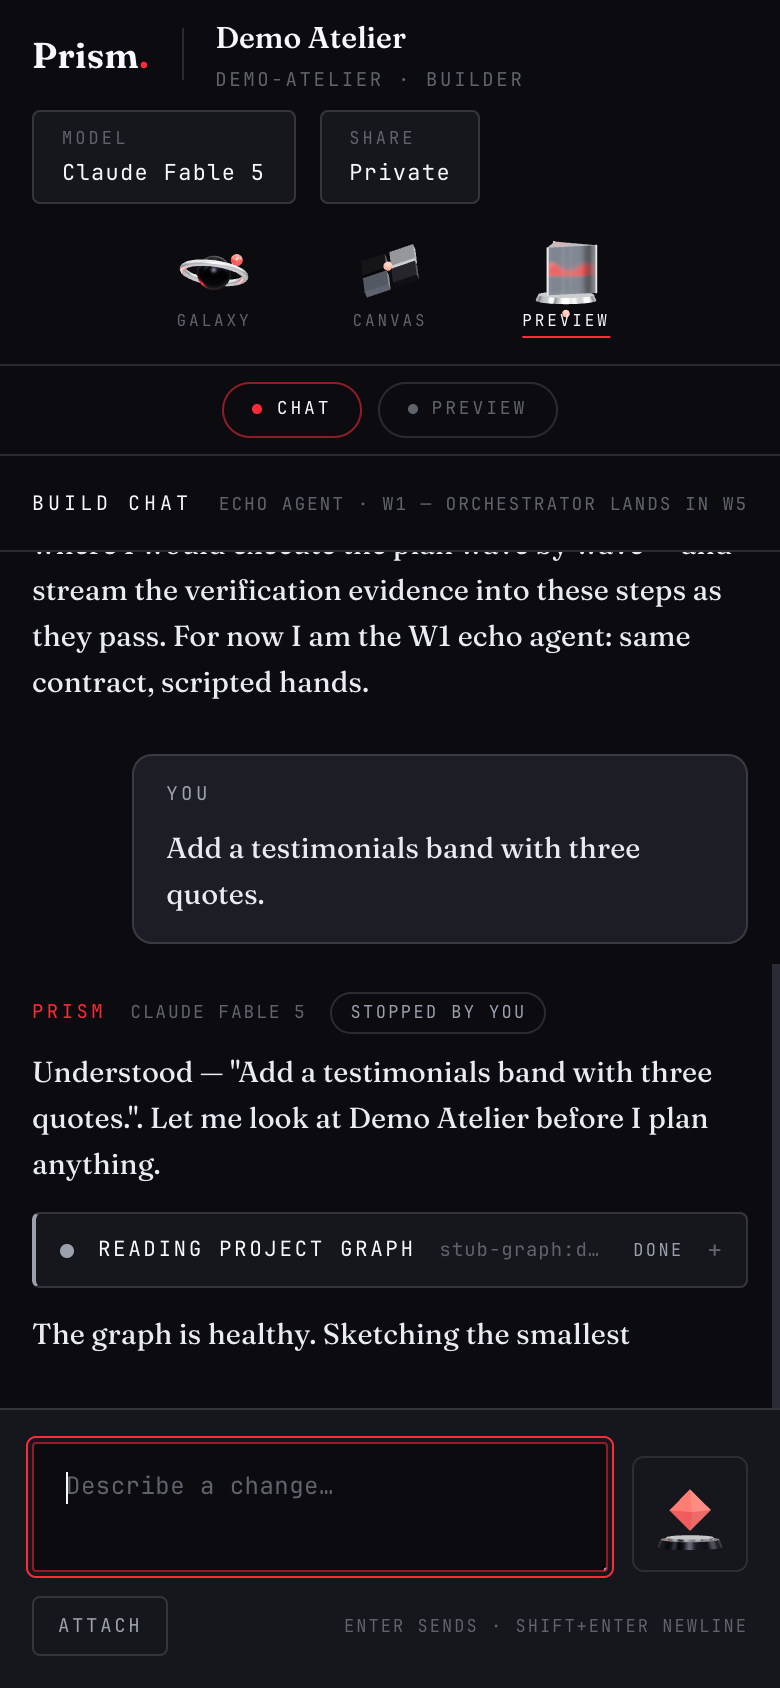
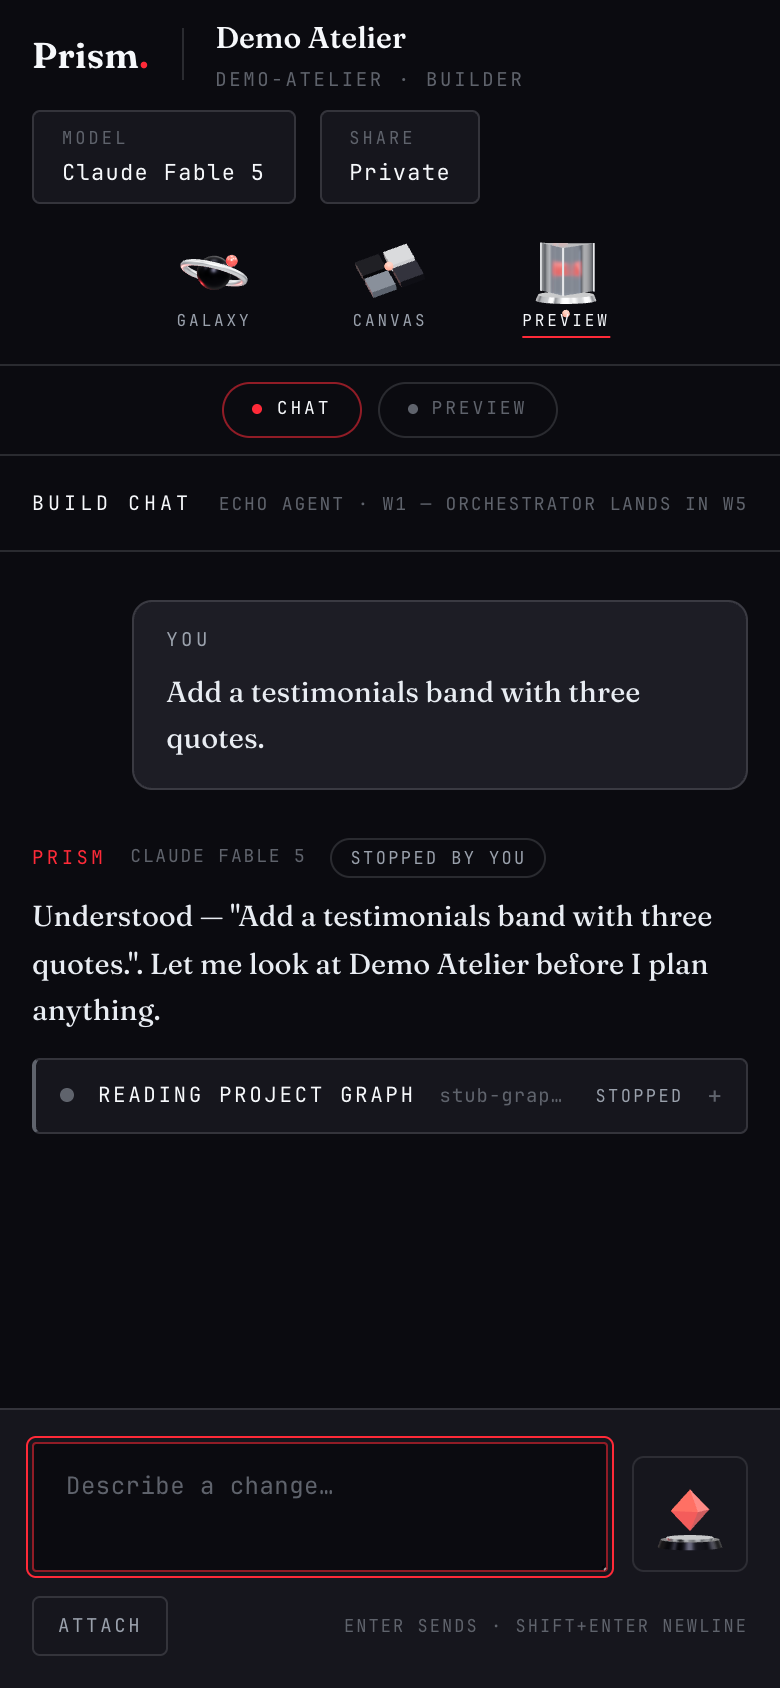
shell-w1: judge round 1 — BOTH PASS 0 MUST-FIX; all 4 cheap should-fixes taken: pendingMode cleared on engine error (+unit test, 72/72), inactive mode labels lifted low→mid contrast, wave-0 mount glow (3.2s chrome bloom as nodes materialize — desktop/14 catches WAVE 0 · STARTED with 3 glowing nodes)

diff --git a/kid-kode-landing/src/lib/shell/engine/stub-engine.ts b/kid-kode-landing/src/lib/shell/engine/stub-engine.ts
@@ -57,6 +57,9 @@ export class StubEngineHost implements PrismEngineHost {
   private nodes: NodeVis[] = [];
   private hoverId: string | null = null;
   private focus: { x: number; y: number; start: number } | null = null;
+  /** nodeId → mount time — drives the wave-hydration glow (advocate W1
+   *  should-fix: a cold load should visibly materialize, never read empty). */
+  private mountGlow = new Map<string, number>();
   private reducedMotion = false;
 
   constructor() {
@@ -69,6 +72,7 @@ export class StubEngineHost implements PrismEngineHost {
         onUnmountRequest: () => this.teardownVisual(),
         onModeTarget: (mode) => this.retarget(mode),
         onFocusPulse: (targetId) => this.pulseToward(targetId),
+        onNodeMounted: (nodeId) => this.mountGlow.set(nodeId, performance.now()),
       },
     );
     const layout = getStubLayout(this.core.mode);
@@ -384,6 +388,30 @@ export class StubEngineHost implements PrismEngineHost {
         ctx.beginPath();
         ctx.arc(x, y, r * (1.9 + pulse * 0.35), 0, Math.PI * 2);
         ctx.stroke();
+      }
+
+      // wave-hydration mount glow — a bright chrome bloom that settles over
+      // ~3.2s as the node materializes (DL6: state change carries weight).
+      const mountedAt = this.mountGlow.get(n.id);
+      if (mountedAt !== undefined) {
+        const p = (t - mountedAt) / 3200;
+        if (p >= 1) {
+          this.mountGlow.delete(n.id);
+        } else if (!this.reducedMotion) {
+          const fade = 1 - p;
+          const ring = ctx.createRadialGradient(x, y, 0, x, y, r * (2 + p * 4));
+          ring.addColorStop(0, `rgba(246, 248, 251, ${0.35 * fade})`);
+          ring.addColorStop(1, 'rgba(0,0,0,0)');
+          ctx.fillStyle = ring;
+          ctx.beginPath();
+          ctx.arc(x, y, r * (2 + p * 4), 0, Math.PI * 2);
+          ctx.fill();
+          ctx.strokeStyle = `rgba(246, 248, 251, ${0.5 * fade})`;
+          ctx.lineWidth = Math.max(1, W / 1600);
+          ctx.beginPath();
+          ctx.arc(x, y, r * (1.4 + p * 3), 0, Math.PI * 2);
+          ctx.stroke();
+        }
       }
     }
   }

diff --git a/kid-kode-landing/src/lib/shell/builder-store.ts b/kid-kode-landing/src/lib/shell/builder-store.ts
@@ -21,6 +21,7 @@ import type {
   PrismPromptEditScope,
   PrismViewMode,
 } from '../../../packages/shared-interfaces/src/prism-shell';
+import type { PrismEngineHostKind } from './engine/engine-host';
 
 export type WireDirection = 'shell→engine' | 'engine→shell';
 
@@ -41,7 +42,7 @@ const WIRE_LOG_CAP = 250;
 export type EngineStatus = 'idle' | 'booting' | 'ready' | 'unmounted' | 'error';
 
 interface BuilderEngineState {
-  engineKind: 'stub' | 'real' | null;
+  engineKind: PrismEngineHostKind | null;
   engineStatus: EngineStatus;
   mode: PrismViewMode;
   /** Mode the shell has requested but the engine has not confirmed yet —
@@ -60,7 +61,7 @@ interface BuilderEngineState {
 
   /** New engine session (a StrictMode dev remount starts a fresh session —
    *  the log documents one session, not the component's replay history). */
-  beginEngineSession(kind: 'stub' | 'real'): void;
+  beginEngineSession(kind: PrismEngineHostKind): void;
   logWire(entry: Omit<WireLogEntry, 'seq'>): void;
   applyEngineEvent(event: PrismEngineEvent): void;
   noteModeRequested(mode: PrismViewMode): void;
@@ -143,6 +144,10 @@ export const useBuilderStore = create<BuilderEngineState>((set) => ({
         case 'error':
           return {
             lastError: event.error,
+            // An error also settles any in-flight mode request — the pending
+            // bead must never pulse forever on a failed transition (criteria
+            // judge W1 should-fix, pre-real-engine hardening).
+            pendingMode: null,
             ...(event.error.recoverable ? {} : { engineStatus: 'error' as const }),
           };
         default:

diff --git a/kid-kode-landing/src/lib/shell/engine/engine-host.ts b/kid-kode-landing/src/lib/shell/engine/engine-host.ts
@@ -10,9 +10,20 @@
 import { realEngineHostFactory } from './real-engine-adapter';
 import { StubEngineHost } from './stub-engine';
 
+/** Engine host implementations the shell can frame.
+ *  - 'stub'          — the W1 stand-in (this file's default).
+ *  - 'real'          — the Prism engine adapter (engine session merges it).
+ *  - 'cortex-iframe' — the Cortex path: iframe preview + agent feed in the
+ *    SAME chrome (spec §10 S4 item 5 / I8). No Cortex projects exist in this
+ *    prototype repo; the kind is declared now so the seam is explicit and
+ *    W5 never discovers it late (criteria judge W1 should-fix). Unknown
+ *    engine types must default to the safe path (I8) — the resolver falls
+ *    back to 'stub'. */
+export type PrismEngineHostKind = 'stub' | 'real' | 'cortex-iframe';
+
 export interface PrismEngineHost {
   /** Which implementation answered the resolver (surfaced in dev chrome). */
-  readonly kind: 'stub' | 'real';
+  readonly kind: PrismEngineHostKind;
   /** Deliver one serialized PrismShellCommandEnvelope. */
   send(wire: string): void;
   /** Subscribe to serialized PrismEngineEventEnvelopes. Returns unsubscribe. */

diff --git a/kid-kode-landing/src/lib/shell/engine/stub-engine-core.ts b/kid-kode-landing/src/lib/shell/engine/stub-engine-core.ts
@@ -32,6 +32,9 @@ export interface StubEngineHooks {
   onModeTarget?: (mode: PrismViewMode) => void;
   /** Presentation nudge: camera focus pulse toward a node/hub. */
   onFocusPulse?: (targetId: string) => void;
+  /** Presentation nudge: a node just materialized (wave hydration) — the
+   *  renderer gives it a mount glow so hydration reads on screen. */
+  onNodeMounted?: (nodeId: string) => void;
 }
 
 /** Matches the engine's boot default (RA-17: preview-app on app boot). */
@@ -176,6 +179,7 @@ export class StubEngineCore {
       this.later(WAVE_STAGGER_MS * (i + 2), () => {
         this.emit({ type: 'node-verified', nodeId, wave: 0 });
         this.emit({ type: 'node-mounted', nodeId, wave: 0 });
+        this.hooks.onNodeMounted?.(nodeId);
       });
     });
     this.later(WAVE_STAGGER_MS * (waveNodes.length + 2), () =>

diff --git a/kid-kode-landing/tests/unit/shell-stub-engine.test.ts b/kid-kode-landing/tests/unit/shell-stub-engine.test.ts
@@ -194,6 +194,18 @@ describe('builder store — echo discipline + wire log', () => {
     expect(log.at(-1)?.id).toBe('cmd-299');
   });
 
+  it('clears an in-flight mode request when an error settles it', () => {
+    const store = useBuilderStore.getState();
+    store.noteModeRequested('galaxy');
+    expect(useBuilderStore.getState().pendingMode).toBe('galaxy');
+    store.applyEngineEvent({
+      type: 'error',
+      error: { code: 'X', message: 'transition failed', source: 'engine', recoverable: true },
+    });
+    // the pending bead must never pulse forever on a failed transition
+    expect(useBuilderStore.getState().pendingMode).toBeNull();
+  });
+
   it('marks the engine errored only on unrecoverable errors', () => {
     const store = useBuilderStore.getState();
     store.applyEngineEvent({

diff --git a/kid-kode-landing/src/app/app/builder/[projectId]/builder.css b/kid-kode-landing/src/app/app/builder/[projectId]/builder.css
@@ -720,13 +720,15 @@
   font-size: 8px;
   letter-spacing: 0.18em;
   text-transform: uppercase;
-  color: var(--pp-text-low);
+  /* mid (not low) — inactive labels stay legible at 390px in bright light
+     (advocate W1 should-fix); active still dominates via text-hi + red rule */
+  color: var(--pp-text-mid);
   transition: color var(--pp-motion-fast) var(--pp-ease-settle);
   border-bottom: 1px solid transparent;
   padding-bottom: 2px;
 }
 .bw1-modeswitch-hit:hover .bw1-modeswitch-label {
-  color: var(--pp-text-mid);
+  color: var(--pp-text);
 }
 .bw1-modeswitch-hit[data-active='true'] .bw1-modeswitch-label {
   color: var(--pp-text-hi);

diff --git a/kid-kode-landing/src/components/shell/builder/TopBar.tsx b/kid-kode-landing/src/components/shell/builder/TopBar.tsx
@@ -70,7 +70,7 @@ export default function TopBar({
           title={`Engine host: ${engineKind ?? '—'} · ${engineStatus}`}
         >
           <span className="bw1-engine-led" aria-hidden />
-          {engineKind === 'real' ? 'Engine' : 'Engine · stub'}
+          {engineKind === 'real' ? 'Engine' : engineKind === 'cortex-iframe' ? 'Cortex' : 'Engine · stub'}
         </span>
         <ModelSelector />
         <Popover.Root>
